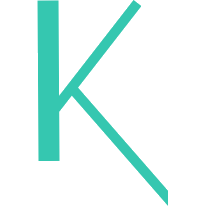
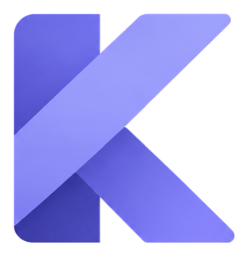
the K is the family's, not a green one traced thin
`assets/k.png` was a 206-pixel outline K in the parent's mint, cropped at
the bottom where its diagonal runs out of frame. The family's mark is
filled and bicolour: three planes overlapping — the upright, the rising
diagonal in the light tone, the descending leg in the dark one — the same
drawing for all four sites, with only the hue turning. That sameness is
what makes four marks read as one family, and an outline in somebody else's
colour does not do it.

It is the handoff's `logos/kealsql.png` at 256 pixels, which is the size all
four uses want: the nav mark at thirty pixels, the tab icon, the share card
and a README banner at 120.

The share card moves to it too. `assets/kealsql.png` was the old wordmark —
a picture of the name, in the parent's green, with `sql` added beside it —
and the site stopped carrying a picture of its own name when the wordmark
became text. Nothing links it now.

Everything else here was already right: the hue-280 tokens, Space Grotesk on
the headings, the grid motif, the two-panel code block, the open cell after
the name, the mint foot on the Keal button. This is the one file that had
not moved.

Done from the Keal session at Tony's request, after the mark spent a day
being described in messages rather than sent. The five marks now live at
`design/logos/` in geneacta/keal, so any session on any machine can fetch
one instead of being told what it looks like.

diff --git a/site/readme.html b/site/readme.html
@@ -15,11 +15,11 @@
 <meta property="og:title" content="README — KealSql">
 <meta property="og:description" content="The design of KealSql and its reasons, the grammar with what every construct compiles to, and the repository&#x27;s README.">
 <meta property="og:url" content="https://geneacta.github.io/kealsql/readme.html">
-<meta property="og:image" content="https://geneacta.github.io/kealsql/assets/kealsql.png">
+<meta property="og:image" content="https://geneacta.github.io/kealsql/assets/k.png">
 <meta name="twitter:card" content="summary_large_image">
 <meta name="twitter:title" content="README — KealSql">
 <meta name="twitter:description" content="The design of KealSql and its reasons, the grammar with what every construct compiles to, and the repository&#x27;s README.">
-<meta name="twitter:image" content="https://geneacta.github.io/kealsql/assets/kealsql.png">
+<meta name="twitter:image" content="https://geneacta.github.io/kealsql/assets/k.png">
 <link rel="icon" type="image/png" href="assets/k.png">
 <link rel="preconnect" href="https://fonts.googleapis.com">
 <link rel="preconnect" href="https://fonts.gstatic.com" crossorigin>
@@ -43,7 +43,7 @@
     <a class="btn-gh" href="https://github.com/geneacta/kealsql">GitHub</a>
   </div>
 </nav>
-<div class="dgrid"><div class="dside"><a href="docs.html">Docs</a><a href="design.html">Design</a><a href="grammar.html">Grammar</a><a href="readme.html" class="on">README</a></div><div class="dmain prose"><p>&lt;!-- kealsql-band:start --&gt; &lt;p align="right"&gt;   &lt;a href="https://github.com/geneacta/kealsql/releases"&gt;&lt;img alt="version" src="https://img.shields.io/badge/version-0.1.0-blue?style=flat&amp;labelColor=2b2b2b"&gt;&lt;/a&gt;   &lt;a href="https://github.com/geneacta/kealsql/tree/main/src"&gt;&lt;img alt="written in Keal" src="https://img.shields.io/badge/written%20in%20Keal-73%25-blue?style=flat&amp;labelColor=2b2b2b"&gt;&lt;/a&gt; &lt;/p&gt; &lt;!-- kealsql-band:end --&gt;</p>
+<div class="dgrid"><div class="dside"><a href="docs.html">Docs</a><a href="design.html">Design</a><a href="grammar.html">Grammar</a><a href="readme.html" class="on">README</a></div><div class="dmain prose"><p>&lt;!-- kealsql-band:start --&gt; &lt;p align="right"&gt;   &lt;a href="https://github.com/geneacta/kealsql/releases"&gt;&lt;img alt="version" src="https://img.shields.io/badge/version-0.1.0-blue?style=flat&amp;labelColor=2b2b2b"&gt;&lt;/a&gt;   &lt;a href="https://github.com/geneacta/kealsql/tree/main/src"&gt;&lt;img alt="written in Keal" src="https://img.shields.io/badge/written%20in%20Keal-72%25-blue?style=flat&amp;labelColor=2b2b2b"&gt;&lt;/a&gt; &lt;/p&gt; &lt;!-- kealsql-band:end --&gt;</p>
 <p>&lt;p align="center"&gt;&lt;img src="site/assets/k.png" alt="" width="120"&gt;&lt;/p&gt;</p>
 <p><strong><a href="https://geneacta.github.io/kealsql/">geneacta.github.io/kealsql</a></strong> · <a href="https://geneacta.github.io/kealsql/start.html">getting started</a> · <a href="https://geneacta.github.io/kealsql/docs.html">docs</a> · <a href="https://geneacta.github.io/keal/">the Keal language</a></p>
 <h1 id="kealsql">KealSql</h1>

diff --git a/site/fr/readme.html b/site/fr/readme.html
@@ -15,11 +15,11 @@
 <meta property="og:title" content="README — KealSql">
 <meta property="og:description" content="Le design de KealSql et ses raisons, la grammaire avec ce que chaque construction compile, et le README du dépôt.">
 <meta property="og:url" content="https://geneacta.github.io/kealsql/fr/readme.html">
-<meta property="og:image" content="https://geneacta.github.io/kealsql/assets/kealsql.png">
+<meta property="og:image" content="https://geneacta.github.io/kealsql/assets/k.png">
 <meta name="twitter:card" content="summary_large_image">
 <meta name="twitter:title" content="README — KealSql">
 <meta name="twitter:description" content="Le design de KealSql et ses raisons, la grammaire avec ce que chaque construction compile, et le README du dépôt.">
-<meta name="twitter:image" content="https://geneacta.github.io/kealsql/assets/kealsql.png">
+<meta name="twitter:image" content="https://geneacta.github.io/kealsql/assets/k.png">
 <link rel="icon" type="image/png" href="../assets/k.png">
 <link rel="preconnect" href="https://fonts.googleapis.com">
 <link rel="preconnect" href="https://fonts.gstatic.com" crossorigin>
@@ -43,7 +43,7 @@
     <a class="btn-gh" href="https://github.com/geneacta/kealsql">GitHub</a>
   </div>
 </nav>
-<div class="dgrid"><div class="dside"><a href="docs.html">Docs</a><a href="design.html">Design</a><a href="grammar.html">Grammaire</a><a href="readme.html" class="on">README</a></div><div class="dmain prose"><p>&lt;!-- kealsql-band:start --&gt; &lt;p align="right"&gt;   &lt;a href="https://github.com/geneacta/kealsql/releases"&gt;&lt;img alt="version" src="https://img.shields.io/badge/version-0.1.0-blue?style=flat&amp;labelColor=2b2b2b"&gt;&lt;/a&gt;   &lt;a href="https://github.com/geneacta/kealsql/tree/main/src"&gt;&lt;img alt="written in Keal" src="https://img.shields.io/badge/written%20in%20Keal-73%25-blue?style=flat&amp;labelColor=2b2b2b"&gt;&lt;/a&gt; &lt;/p&gt; &lt;!-- kealsql-band:end --&gt;</p>
+<div class="dgrid"><div class="dside"><a href="docs.html">Docs</a><a href="design.html">Design</a><a href="grammar.html">Grammaire</a><a href="readme.html" class="on">README</a></div><div class="dmain prose"><p>&lt;!-- kealsql-band:start --&gt; &lt;p align="right"&gt;   &lt;a href="https://github.com/geneacta/kealsql/releases"&gt;&lt;img alt="version" src="https://img.shields.io/badge/version-0.1.0-blue?style=flat&amp;labelColor=2b2b2b"&gt;&lt;/a&gt;   &lt;a href="https://github.com/geneacta/kealsql/tree/main/src"&gt;&lt;img alt="written in Keal" src="https://img.shields.io/badge/written%20in%20Keal-72%25-blue?style=flat&amp;labelColor=2b2b2b"&gt;&lt;/a&gt; &lt;/p&gt; &lt;!-- kealsql-band:end --&gt;</p>
 <p>&lt;p align="center"&gt;&lt;img src="site/assets/k.png" alt="" width="120"&gt;&lt;/p&gt;</p>
 <p><strong><a href="https://geneacta.github.io/kealsql/">geneacta.github.io/kealsql</a></strong> · <a href="https://geneacta.github.io/kealsql/start.html">getting started</a> · <a href="https://geneacta.github.io/kealsql/docs.html">docs</a> · <a href="https://geneacta.github.io/keal/">the Keal language</a></p>
 <h1 id="kealsql">KealSql</h1>

diff --git a/site/fr/index.html b/site/fr/index.html
@@ -15,11 +15,11 @@
 <meta property="og:title" content="KealSql — la forme de Keal sur PostgreSQL">
 <meta property="og:description" content="Un langage à la forme de Keal sur un PostgreSQL non modifié : schéma et requêtes vérifiés ensemble, compilés à l&#x27;avance en SQL, migrations par diff, et du Keal qui tourne dans le serveur.">
 <meta property="og:url" content="https://geneacta.github.io/kealsql/fr/index.html">
-<meta property="og:image" content="https://geneacta.github.io/kealsql/assets/kealsql.png">
+<meta property="og:image" content="https://geneacta.github.io/kealsql/assets/k.png">
 <meta name="twitter:card" content="summary_large_image">
 <meta name="twitter:title" content="KealSql — la forme de Keal sur PostgreSQL">
 <meta name="twitter:description" content="Un langage à la forme de Keal sur un PostgreSQL non modifié : schéma et requêtes vérifiés ensemble, compilés à l&#x27;avance en SQL, migrations par diff, et du Keal qui tourne dans le serveur.">
-<meta name="twitter:image" content="https://geneacta.github.io/kealsql/assets/kealsql.png">
+<meta name="twitter:image" content="https://geneacta.github.io/kealsql/assets/k.png">
 <link rel="icon" type="image/png" href="../assets/k.png">
 <link rel="preconnect" href="https://fonts.googleapis.com">
 <link rel="preconnect" href="https://fonts.gstatic.com" crossorigin>

diff --git a/site/index.html b/site/index.html
@@ -15,11 +15,11 @@
 <meta property="og:title" content="KealSql — Keal&#x27;s shape over PostgreSQL">
 <meta property="og:description" content="A Keal-shaped language over an unmodified PostgreSQL: schema and queries type-checked together, compiled ahead of time to SQL, migrations from a diff, and Keal running inside the server.">
 <meta property="og:url" content="https://geneacta.github.io/kealsql/index.html">
-<meta property="og:image" content="https://geneacta.github.io/kealsql/assets/kealsql.png">
+<meta property="og:image" content="https://geneacta.github.io/kealsql/assets/k.png">
 <meta name="twitter:card" content="summary_large_image">
 <meta name="twitter:title" content="KealSql — Keal&#x27;s shape over PostgreSQL">
 <meta name="twitter:description" content="A Keal-shaped language over an unmodified PostgreSQL: schema and queries type-checked together, compiled ahead of time to SQL, migrations from a diff, and Keal running inside the server.">
-<meta name="twitter:image" content="https://geneacta.github.io/kealsql/assets/kealsql.png">
+<meta name="twitter:image" content="https://geneacta.github.io/kealsql/assets/k.png">
 <link rel="icon" type="image/png" href="assets/k.png">
 <link rel="preconnect" href="https://fonts.googleapis.com">
 <link rel="preconnect" href="https://fonts.gstatic.com" crossorigin>

diff --git a/site/fr/start.html b/site/fr/start.html
@@ -15,11 +15,11 @@
 <meta property="og:title" content="Premiers pas — KealSql">
 <meta property="og:description" content="Créer une base PostgreSQL depuis un fichier .kealsql, l&#x27;utiliser depuis psql et depuis un programme Keal, la faire évoluer par migration, et exécuter du Keal dans le serveur.">
 <meta property="og:url" content="https://geneacta.github.io/kealsql/fr/start.html">
-<meta property="og:image" content="https://geneacta.github.io/kealsql/assets/kealsql.png">
+<meta property="og:image" content="https://geneacta.github.io/kealsql/assets/k.png">
 <meta name="twitter:card" content="summary_large_image">
 <meta name="twitter:title" content="Premiers pas — KealSql">
 <meta name="twitter:description" content="Créer une base PostgreSQL depuis un fichier .kealsql, l&#x27;utiliser depuis psql et depuis un programme Keal, la faire évoluer par migration, et exécuter du Keal dans le serveur.">
-<meta name="twitter:image" content="https://geneacta.github.io/kealsql/assets/kealsql.png">
+<meta name="twitter:image" content="https://geneacta.github.io/kealsql/assets/k.png">
 <link rel="icon" type="image/png" href="../assets/k.png">
 <link rel="preconnect" href="https://fonts.googleapis.com">
 <link rel="preconnect" href="https://fonts.gstatic.com" crossorigin>

diff --git a/site/fr/walkthrough.html b/site/fr/walkthrough.html
@@ -15,11 +15,11 @@
 <meta property="og:title" content="Pas à pas — KealSql">
 <meta property="og:description" content="D&#x27;une machine nue à un programme Keal qui parle à une base PostgreSQL qu&#x27;il a créée lui-même : chaque commande, ce qu&#x27;elle fait, et ce que vous devez voir.">
 <meta property="og:url" content="https://geneacta.github.io/kealsql/fr/walkthrough.html">
-<meta property="og:image" content="https://geneacta.github.io/kealsql/assets/kealsql.png">
+<meta property="og:image" content="https://geneacta.github.io/kealsql/assets/k.png">
 <meta name="twitter:card" content="summary_large_image">
 <meta name="twitter:title" content="Pas à pas — KealSql">
 <meta name="twitter:description" content="D&#x27;une machine nue à un programme Keal qui parle à une base PostgreSQL qu&#x27;il a créée lui-même : chaque commande, ce qu&#x27;elle fait, et ce que vous devez voir.">
-<meta name="twitter:image" content="https://geneacta.github.io/kealsql/assets/kealsql.png">
+<meta name="twitter:image" content="https://geneacta.github.io/kealsql/assets/k.png">
 <link rel="icon" type="image/png" href="../assets/k.png">
 <link rel="preconnect" href="https://fonts.googleapis.com">
 <link rel="preconnect" href="https://fonts.gstatic.com" crossorigin>

diff --git a/site/start.html b/site/start.html
@@ -15,11 +15,11 @@
 <meta property="og:title" content="Getting started — KealSql">
 <meta property="og:description" content="Create a PostgreSQL database from a .kealsql file, use it from psql and from a Keal program, evolve it with migrations, and run Keal inside the server.">
 <meta property="og:url" content="https://geneacta.github.io/kealsql/start.html">
-<meta property="og:image" content="https://geneacta.github.io/kealsql/assets/kealsql.png">
+<meta property="og:image" content="https://geneacta.github.io/kealsql/assets/k.png">
 <meta name="twitter:card" content="summary_large_image">
 <meta name="twitter:title" content="Getting started — KealSql">
 <meta name="twitter:description" content="Create a PostgreSQL database from a .kealsql file, use it from psql and from a Keal program, evolve it with migrations, and run Keal inside the server.">
-<meta name="twitter:image" content="https://geneacta.github.io/kealsql/assets/kealsql.png">
+<meta name="twitter:image" content="https://geneacta.github.io/kealsql/assets/k.png">
 <link rel="icon" type="image/png" href="assets/k.png">
 <link rel="preconnect" href="https://fonts.googleapis.com">
 <link rel="preconnect" href="https://fonts.gstatic.com" crossorigin>

diff --git a/site/walkthrough.html b/site/walkthrough.html
@@ -15,11 +15,11 @@
 <meta property="og:title" content="Step by step — KealSql">
 <meta property="og:description" content="From a bare machine to a Keal program talking to a PostgreSQL database it created itself: every command, what it does, and what you should see.">
 <meta property="og:url" content="https://geneacta.github.io/kealsql/walkthrough.html">
-<meta property="og:image" content="https://geneacta.github.io/kealsql/assets/kealsql.png">
+<meta property="og:image" content="https://geneacta.github.io/kealsql/assets/k.png">
 <meta name="twitter:card" content="summary_large_image">
 <meta name="twitter:title" content="Step by step — KealSql">
 <meta name="twitter:description" content="From a bare machine to a Keal program talking to a PostgreSQL database it created itself: every command, what it does, and what you should see.">
-<meta name="twitter:image" content="https://geneacta.github.io/kealsql/assets/kealsql.png">
+<meta name="twitter:image" content="https://geneacta.github.io/kealsql/assets/k.png">
 <link rel="icon" type="image/png" href="assets/k.png">
 <link rel="preconnect" href="https://fonts.googleapis.com">
 <link rel="preconnect" href="https://fonts.gstatic.com" crossorigin>

diff --git a/site/grammar.html b/site/grammar.html
@@ -15,11 +15,11 @@
 <meta property="og:title" content="Grammar — KealSql">
 <meta property="og:description" content="The design of KealSql and its reasons, the grammar with what every construct compiles to, and the repository&#x27;s README.">
 <meta property="og:url" content="https://geneacta.github.io/kealsql/grammar.html">
-<meta property="og:image" content="https://geneacta.github.io/kealsql/assets/kealsql.png">
+<meta property="og:image" content="https://geneacta.github.io/kealsql/assets/k.png">
 <meta name="twitter:card" content="summary_large_image">
 <meta name="twitter:title" content="Grammar — KealSql">
 <meta name="twitter:description" content="The design of KealSql and its reasons, the grammar with what every construct compiles to, and the repository&#x27;s README.">
-<meta name="twitter:image" content="https://geneacta.github.io/kealsql/assets/kealsql.png">
+<meta name="twitter:image" content="https://geneacta.github.io/kealsql/assets/k.png">
 <link rel="icon" type="image/png" href="assets/k.png">
 <link rel="preconnect" href="https://fonts.googleapis.com">
 <link rel="preconnect" href="https://fonts.gstatic.com" crossorigin>

diff --git a/site/design.html b/site/design.html
@@ -15,11 +15,11 @@
 <meta property="og:title" content="Design — KealSql">
 <meta property="og:description" content="The design of KealSql and its reasons, the grammar with what every construct compiles to, and the repository&#x27;s README.">
 <meta property="og:url" content="https://geneacta.github.io/kealsql/design.html">
-<meta property="og:image" content="https://geneacta.github.io/kealsql/assets/kealsql.png">
+<meta property="og:image" content="https://geneacta.github.io/kealsql/assets/k.png">
 <meta name="twitter:card" content="summary_large_image">
 <meta name="twitter:title" content="Design — KealSql">
 <meta name="twitter:description" content="The design of KealSql and its reasons, the grammar with what every construct compiles to, and the repository&#x27;s README.">
-<meta name="twitter:image" content="https://geneacta.github.io/kealsql/assets/kealsql.png">
+<meta name="twitter:image" content="https://geneacta.github.io/kealsql/assets/k.png">
 <link rel="icon" type="image/png" href="assets/k.png">
 <link rel="preconnect" href="https://fonts.googleapis.com">
 <link rel="preconnect" href="https://fonts.gstatic.com" crossorigin>

diff --git a/site/docs.html b/site/docs.html
@@ -15,11 +15,11 @@
 <meta property="og:title" content="Docs — KealSql">
 <meta property="og:description" content="The design of KealSql and its reasons, the grammar with what every construct compiles to, and the repository&#x27;s README.">
 <meta property="og:url" content="https://geneacta.github.io/kealsql/docs.html">
-<meta property="og:image" content="https://geneacta.github.io/kealsql/assets/kealsql.png">
+<meta property="og:image" content="https://geneacta.github.io/kealsql/assets/k.png">
 <meta name="twitter:card" content="summary_large_image">
 <meta name="twitter:title" content="Docs — KealSql">
 <meta name="twitter:description" content="The design of KealSql and its reasons, the grammar with what every construct compiles to, and the repository&#x27;s README.">
-<meta name="twitter:image" content="https://geneacta.github.io/kealsql/assets/kealsql.png">
+<meta name="twitter:image" content="https://geneacta.github.io/kealsql/assets/k.png">
 <link rel="icon" type="image/png" href="assets/k.png">
 <link rel="preconnect" href="https://fonts.googleapis.com">
 <link rel="preconnect" href="https://fonts.gstatic.com" crossorigin>

diff --git a/site/fr/grammar.html b/site/fr/grammar.html
@@ -15,11 +15,11 @@
 <meta property="og:title" content="Grammar — KealSql">
 <meta property="og:description" content="Le design de KealSql et ses raisons, la grammaire avec ce que chaque construction compile, et le README du dépôt.">
 <meta property="og:url" content="https://geneacta.github.io/kealsql/fr/grammar.html">
-<meta property="og:image" content="https://geneacta.github.io/kealsql/assets/kealsql.png">
+<meta property="og:image" content="https://geneacta.github.io/kealsql/assets/k.png">
 <meta name="twitter:card" content="summary_large_image">
 <meta name="twitter:title" content="Grammar — KealSql">
 <meta name="twitter:description" content="Le design de KealSql et ses raisons, la grammaire avec ce que chaque construction compile, et le README du dépôt.">
-<meta name="twitter:image" content="https://geneacta.github.io/kealsql/assets/kealsql.png">
+<meta name="twitter:image" content="https://geneacta.github.io/kealsql/assets/k.png">
 <link rel="icon" type="image/png" href="../assets/k.png">
 <link rel="preconnect" href="https://fonts.googleapis.com">
 <link rel="preconnect" href="https://fonts.gstatic.com" crossorigin>
